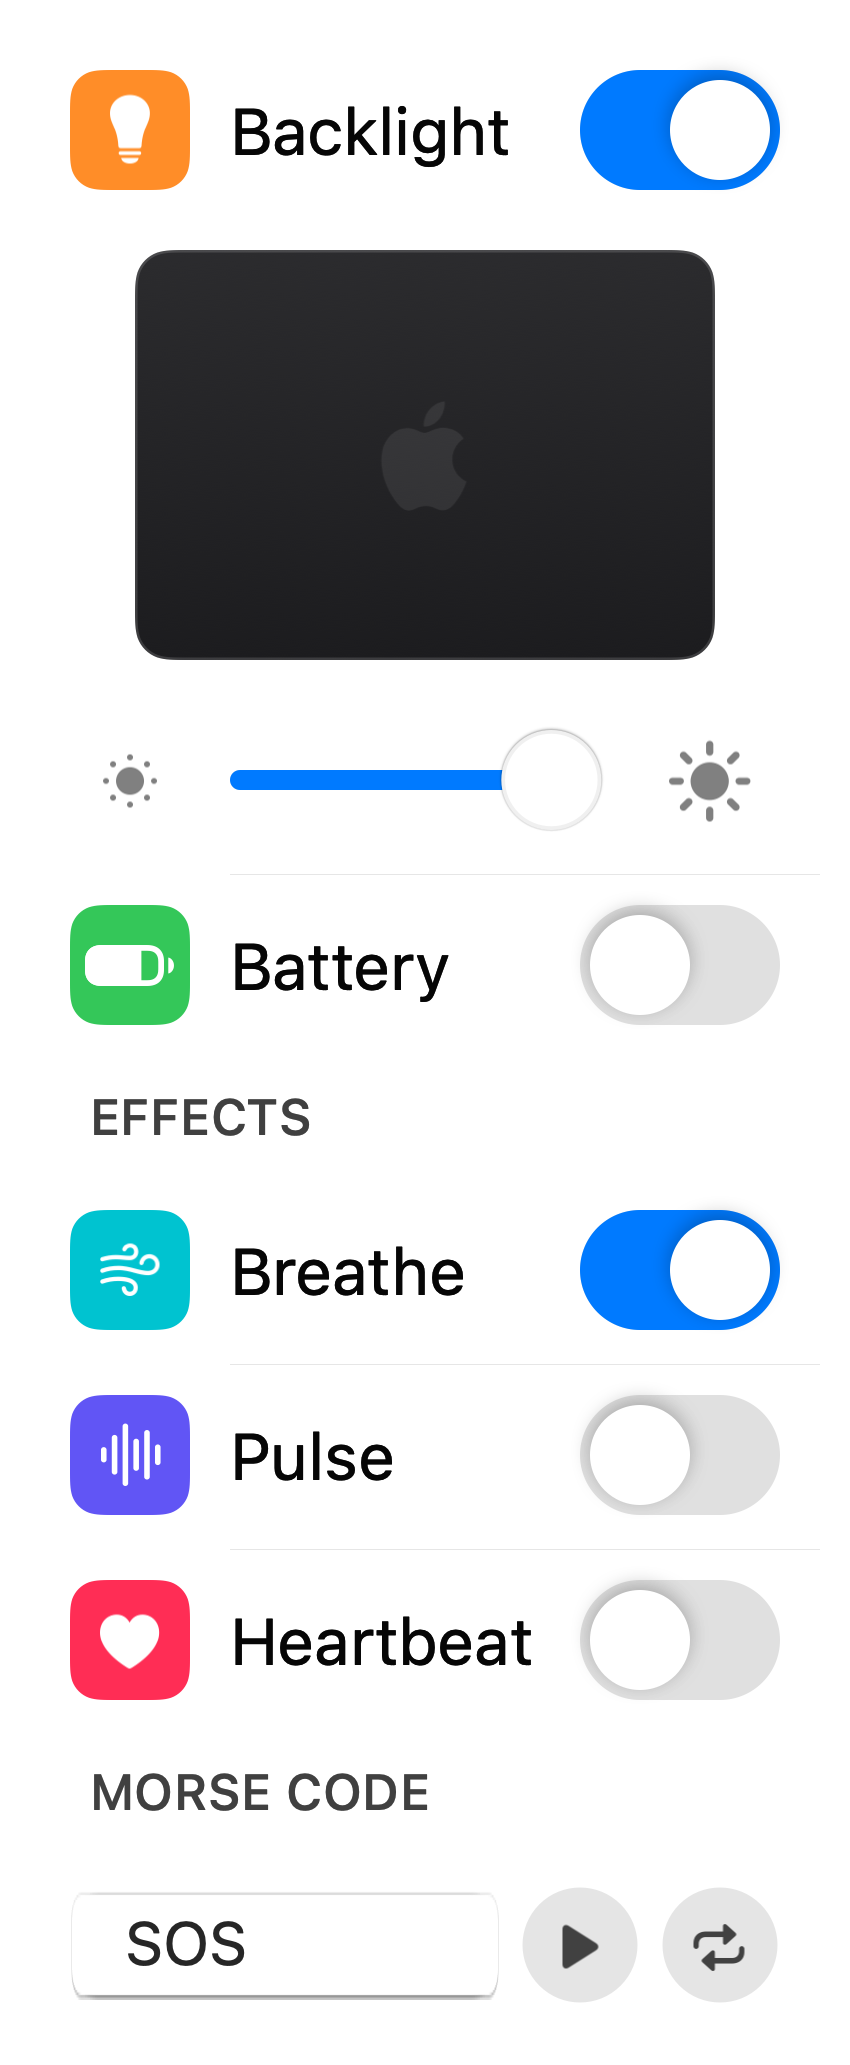
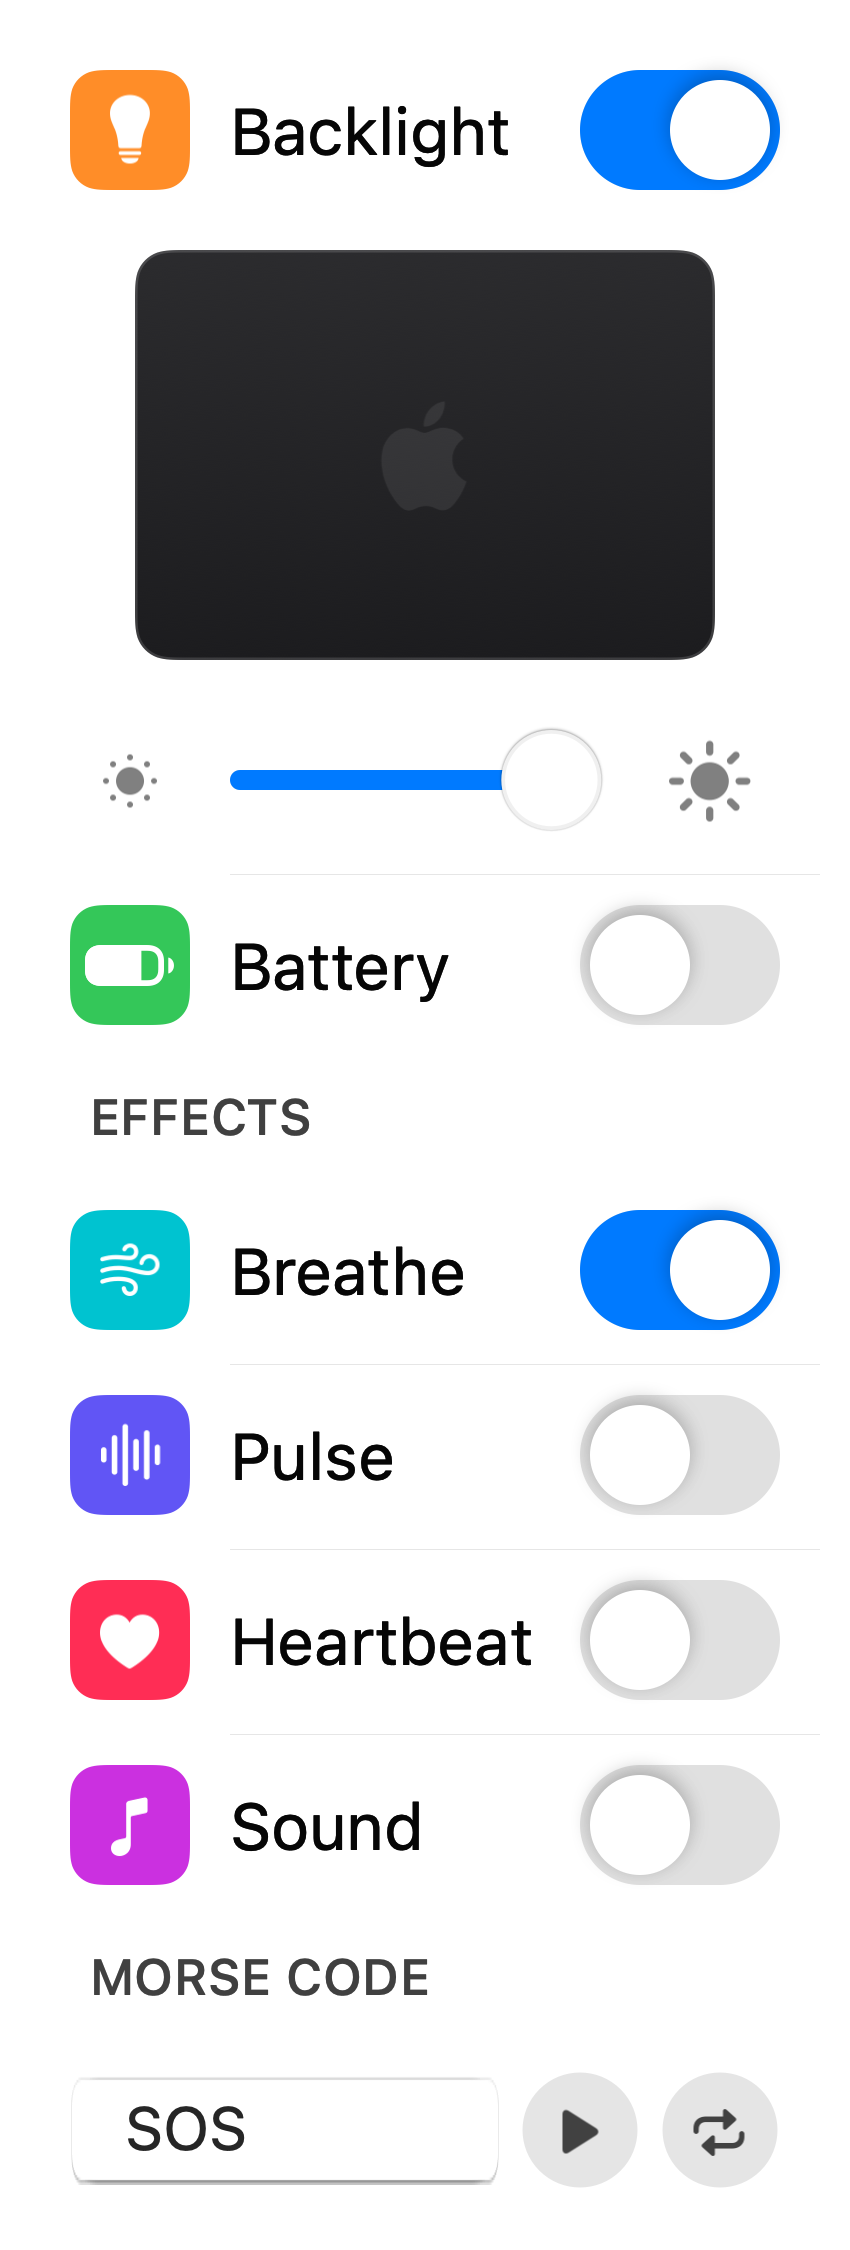
Show the Sound switch in the README and website pictures
The banner, the menu GIFs and the site's menu pictures are drawn again
from the 1.2.0 panel, which has the Sound row under Heartbeat and is 450
points tall (so the site's menu pictures are 850 × 2250, and the hero's
screen grew to fit). The taglines now end with "or glow with your music".
The lid clips didn't change and are kept as they were.

diff --git a/site/public/index.html b/site/public/index.html
@@ -4,7 +4,7 @@
   <meta charset="utf-8">
   <meta name="viewport" content="width=device-width, initial-scale=1">
   <title>LogoLight: turn off or dim the MacBook Pro's glowing Apple logo</title>
-  <meta name="description" content="Turn off or dim the glowing Apple logo on the OLED MacBook Pro with PROLED XDR Display, or let it breathe, pulse or beat like a heart. A free, open-source menu bar app.">
+  <meta name="description" content="Turn off or dim the glowing Apple logo on the OLED MacBook Pro with PROLED XDR Display, let it breathe, pulse or beat like a heart, or glow with your music. A free, open-source menu bar app.">
   <meta name="robots" content="max-image-preview:large">
   <link rel="alternate" type="text/plain" href="https://logolight.app/llms.txt" title="LogoLight, in plain text for AI assistants">
   <meta name="color-scheme" content="light dark">
@@ -20,7 +20,7 @@
   <meta property="og:site_name" content="LogoLight">
   <meta property="og:url" content="https://logolight.app/">
   <meta property="og:title" content="LogoLight: turn off or dim the MacBook Pro's glowing Apple logo">
-  <meta property="og:description" content="A free, open-source menu bar app for the illuminated Apple logo on the back of the OLED MacBook Pro with PROLED XDR Display. Turn it off, set its brightness, or let it breathe, pulse or beat like a heart.">
+  <meta property="og:description" content="A free, open-source menu bar app for the illuminated Apple logo on the back of the OLED MacBook Pro with PROLED XDR Display. Turn it off, set its brightness, let it breathe, pulse or beat like a heart, or glow with your music.">
   <meta property="og:image" content="https://logolight.app/og.jpg">
   <meta property="og:image:type" content="image/jpeg">
   <meta property="og:image:width" content="1200">
@@ -173,7 +173,7 @@
         <div class="hero-copy">
           <p class="eyebrow">For MacBook Pro with PROLED XDR Display</p>
           <h1 id="hero-title">Control your glowing Apple&nbsp;logo.</h1>
-          <p class="lead">LogoLight is a free menu bar app for the illuminated Apple logo on the back of your new MacBook&nbsp;Pro with PROLED XDR&nbsp;Display. Turn it off, dim it, or let it breathe, pulse or beat like a&nbsp;heart.</p>
+          <p class="lead">LogoLight is a free menu bar app for the illuminated Apple logo on the back of your new MacBook&nbsp;Pro with PROLED XDR&nbsp;Display. Turn it off, dim it, let it breathe, pulse or beat like a heart, or glow with your&nbsp;music.</p>
           <div class="actions">
             <a class="btn btn-primary" href="/LogoLight.zip">
               <svg aria-hidden="true" focusable="false"><use href="#i-download"/></svg>
@@ -193,7 +193,7 @@
             <!-- The menu is a real render of LogoLight's panel (LOGOLIGHT_RENDER_PANEL, see PanelRenderer), with the
                  live view unlit; the menu bar, the menu's frame and its two plain items are drawn here, as the app shows
                  them. The live view's light (LOGOLIGHT_RENDER_LIGHT) is laid over the lid and faded with Breathe's timing. -->
-            <div class="screen" role="img" aria-label="LogoLight's menu, open below its icon in the menu bar. At the top, the Backlight switch is on. Below it, the live view of the lid, with the Apple logo glowing and slowly breathing, then the brightness slider near full and the Battery switch, and of the effects Breathe, Pulse and Heartbeat, Breathe is on. Below them, Morse code: a message field with play and loop buttons. Then Lit with Lid Closed, for an external display only, Launch at Login, checked, and Quit LogoLight.">
+            <div class="screen" role="img" aria-label="LogoLight's menu, open below its icon in the menu bar. At the top, the Backlight switch is on. Below it, the live view of the lid, with the Apple logo glowing and slowly breathing, then the brightness slider near full and the Battery switch, and of the effects Breathe, Pulse, Heartbeat and Sound, Breathe is on. Below them, Morse code: a message field with play and loop buttons. Then Lit with Lid Closed, for an external display only, Launch at Login, checked, and Quit LogoLight.">
               <div class="menubar">
                 <span class="status status-open">
                   <img class="status-icon" src="images/menubar-icon.png" width="12" height="17" alt="">
@@ -201,7 +201,7 @@
                     <span class="menu-panel">
                       <picture>
                         <source srcset="images/menu-breathe-dark.png" media="(prefers-color-scheme: dark)">
-                        <img src="images/menu-breathe-light.png" width="850" height="2065" alt="" fetchpriority="high">
+                        <img src="images/menu-breathe-light.png" width="850" height="2250" alt="" fetchpriority="high">
                       </picture>
                       <span class="glow anim-breathe">
                         <img class="halo" src="images/lid-light-696.png" width="696" height="492" alt="">
@@ -340,7 +340,7 @@
             <span class="menu menu-alone">
               <picture>
                 <source srcset="images/menu-on-dark.png" media="(prefers-color-scheme: dark)">
-                <img src="images/menu-on-light.png" width="850" height="2065" alt="LogoLight's menu with the logo on: the Backlight switch on, the live view of the lid with the Apple logo glowing, the brightness slider at three quarters with the Battery switch off below it, no effect switched on, and the Morse code field with its play and loop buttons." loading="lazy" decoding="async">
+                <img src="images/menu-on-light.png" width="850" height="2250" alt="LogoLight's menu with the logo on: the Backlight switch on, the live view of the lid with the Apple logo glowing, the brightness slider at three quarters with the Battery switch off below it, none of the effects Breathe, Pulse, Heartbeat and Sound switched on, and the Morse code field with its play and loop buttons." loading="lazy" decoding="async">
               </picture>
             </span>
             <figcaption>On, at three quarters</figcaption>
@@ -349,7 +349,7 @@
             <span class="menu menu-alone">
               <picture>
                 <source srcset="images/menu-off-dark.png" media="(prefers-color-scheme: dark)">
-                <img src="images/menu-off-light.png" width="850" height="2065" alt="LogoLight's menu with the logo off: the Backlight switch is off, the live view of the lid is dark, and the slider, the Battery switch, the effect switches and Morse code below it are greyed out, keeping their settings." loading="lazy" decoding="async">
+                <img src="images/menu-off-light.png" width="850" height="2250" alt="LogoLight's menu with the logo off: the Backlight switch is off, the live view of the lid is dark, and the slider, the Battery switch, the effect switches and Morse code below it are greyed out, keeping their settings." loading="lazy" decoding="async">
               </picture>
             </span>
             <figcaption>Off, the rest greyed out</figcaption>

diff --git a/scripts/make-banner.swift b/scripts/make-banner.swift
@@ -53,8 +53,8 @@ let w1 = text("glowing ", size: headline, weight: .bold, color: .white, at: CGPo
 _ = text("Apple logo.", size: headline, weight: .bold, color: NSColor(srgbRed: 0.83, green: 0.86, blue: 1, alpha: 1),
          at: CGPoint(x: left + w1, y: 470), kern: -3)
 let grey = NSColor(white: 0.66, alpha: 1)
-_ = text("Turn it off, dim it, or let it breathe,", size: 46, weight: .regular, color: grey, at: CGPoint(x: left, y: 650))
-_ = text("pulse or beat like a heart.", size: 46, weight: .regular, color: grey, at: CGPoint(x: left, y: 712))
+_ = text("Turn it off, dim it, let it breathe or beat", size: 46, weight: .regular, color: grey, at: CGPoint(x: left, y: 650))
+_ = text("like a heart, or glow with your music.", size: 46, weight: .regular, color: grey, at: CGPoint(x: left, y: 712))
 _ = text("Right from the menu bar.", size: 46, weight: .regular, color: grey, at: CGPoint(x: left, y: 774))
 
 // Tags.

diff --git a/site/public/style.css b/site/public/style.css
@@ -547,11 +547,11 @@ strong {
   position: relative;
 }
 
-/* Tall enough for the menu bar and the whole menu below it: the panel is 413 points tall, and Lit with
+/* Tall enough for the menu bar and the whole menu below it: the panel is 450 points tall, and Lit with
    Lid Closed has a second line. */
 .screen {
   position: relative;
-  height: calc(var(--pt) * 589);
+  height: calc(var(--pt) * 626);
   overflow: hidden;
   border-radius: var(--radius-lg);
   background: var(--wallpaper);

diff --git a/README.md b/README.md
@@ -1,5 +1,5 @@
 <p align="center">
-  <img src="docs/banner.jpg" width="100%" alt="LogoLight: Control your glowing Apple logo. Turn it off, dim it, or let it breathe, pulse or beat like a heart. Right from the menu bar. Free, open source, for the MacBook Pro with PROLED XDR Display. Beside the text, LogoLight's live view shows a large lid with the Apple logo glowing, next to its menu with Backlight and Breathe switched on.">
+  <img src="docs/banner.jpg" width="100%" alt="LogoLight: Control your glowing Apple logo. Turn it off, dim it, let it breathe or beat like a heart, or glow with your music. Right from the menu bar. Free, open source, for the MacBook Pro with PROLED XDR Display. Beside the text, LogoLight's live view shows a large lid with the Apple logo glowing, next to its menu with Backlight and Breathe switched on.">
 </p>
 
 <p align="center">
@@ -21,7 +21,7 @@
     <td width="290" align="center" valign="middle">
       <picture>
         <source media="(prefers-color-scheme: dark)" srcset="docs/media/menu-breathe-dark.gif">
-        <img src="docs/media/menu-breathe-light.gif" width="255" alt="LogoLight's menu with the Backlight switch on and Breathe switched on: the live view of the lid shows the Apple logo slowly glowing, fading out and glowing again, above the brightness slider, the Battery switch, the effect switches and Morse code.">
+        <img src="docs/media/menu-breathe-light.gif" width="255" alt="LogoLight's menu with the Backlight switch on and Breathe switched on: the live view of the lid shows the Apple logo slowly glowing, fading out and glowing again, above the brightness slider, the Battery switch, the effect switches (Breathe, Pulse, Heartbeat and Sound) and Morse code.">
       </picture>
     </td>
     <td valign="middle">

diff --git a/CLAUDE.md b/CLAUDE.md
@@ -121,8 +121,10 @@ runs but says the logo isn't available. So:
   **1.2.0 shipped 2026-11-09**: build 144 (commit e6960d1, tag `v1.2.0`), the Sound effect (PR #4),
   notarized with no issues, on the site (a Sound feature tile, no change to the hero's demo, which
   is CSS animation) and as a GitHub Release. The user tried the branch build first and asked for a
-  snappier rise and fall, which went in before the release. The menu GIFs and the site's menu
-  pictures still show the 1.1 menu without the Sound row.
+  snappier rise and fall, which went in before the release. The README's banner and menu GIFs
+  and the site's menu pictures were drawn again with the Sound row (the panel is now 450 points
+  tall, so the site's menu pictures are 850 × 2250 and `.screen` is 626 points); the taglines say
+  "or glow with your music". The site's `og.jpg` still shows the 1.0 menu.
 - The website deploys with `cd site && npx wrangler deploy` (wrangler is logged in with the
   user's Cloudflare account; the Worker "logolight" serves logolight.app and www). For a new
   version: bump `VERSION`, `make dist`, copy the zip to `site/public/LogoLight.zip`, update the
